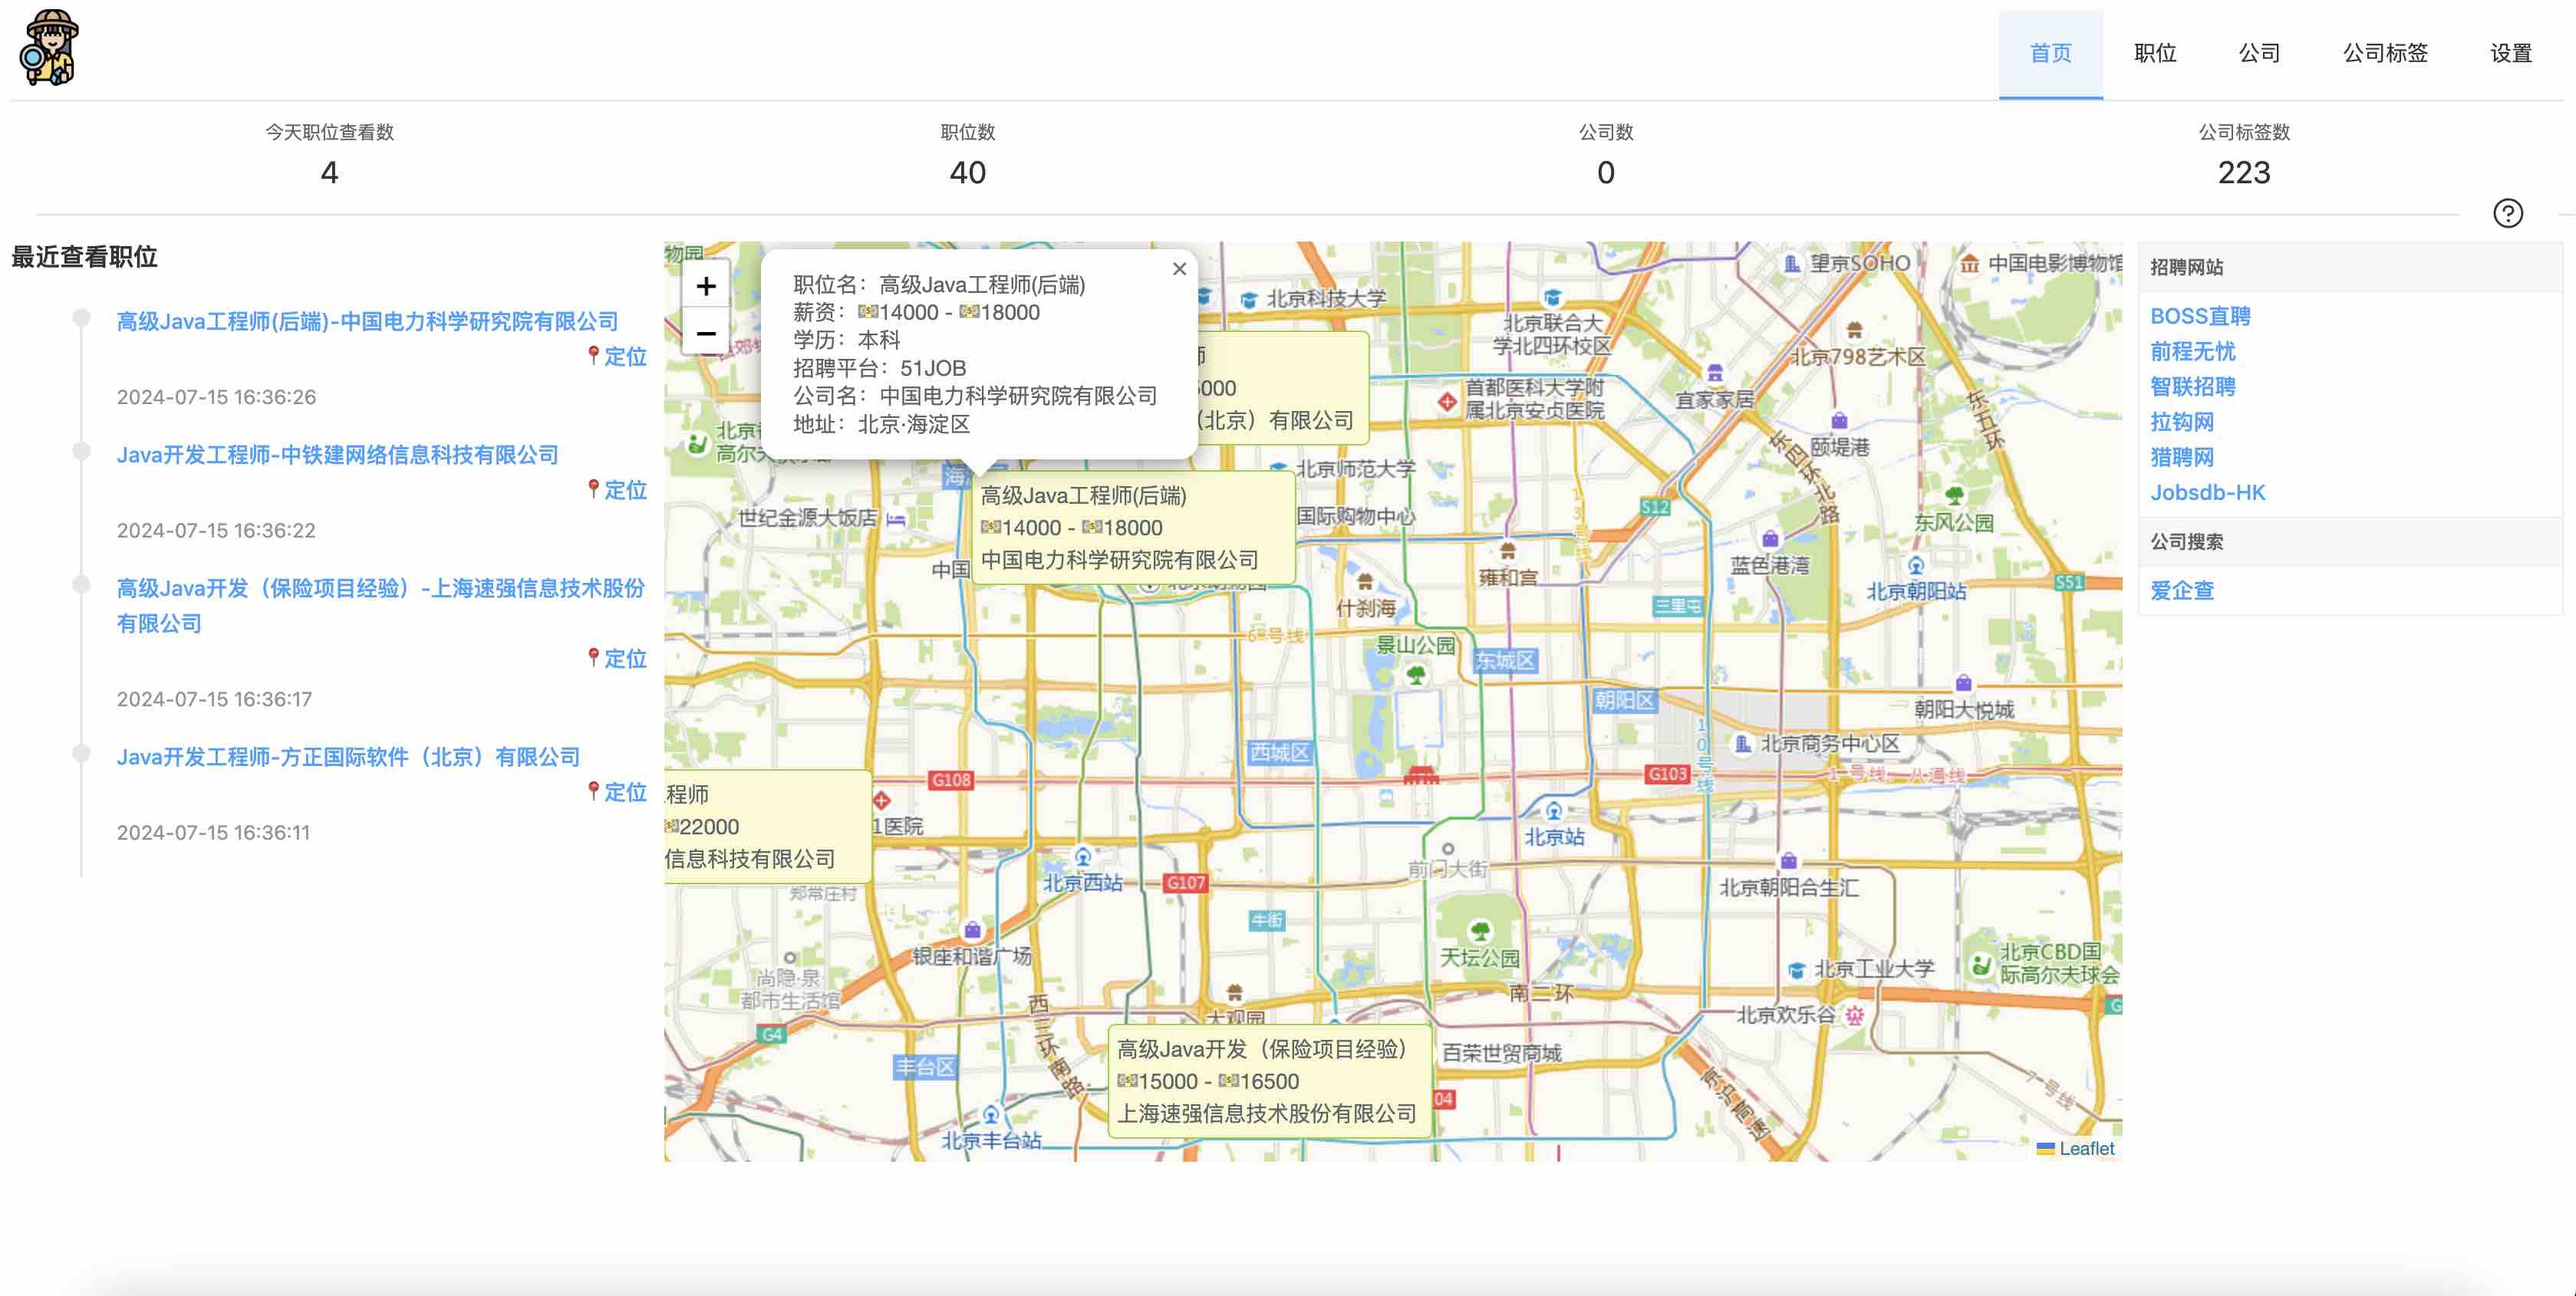
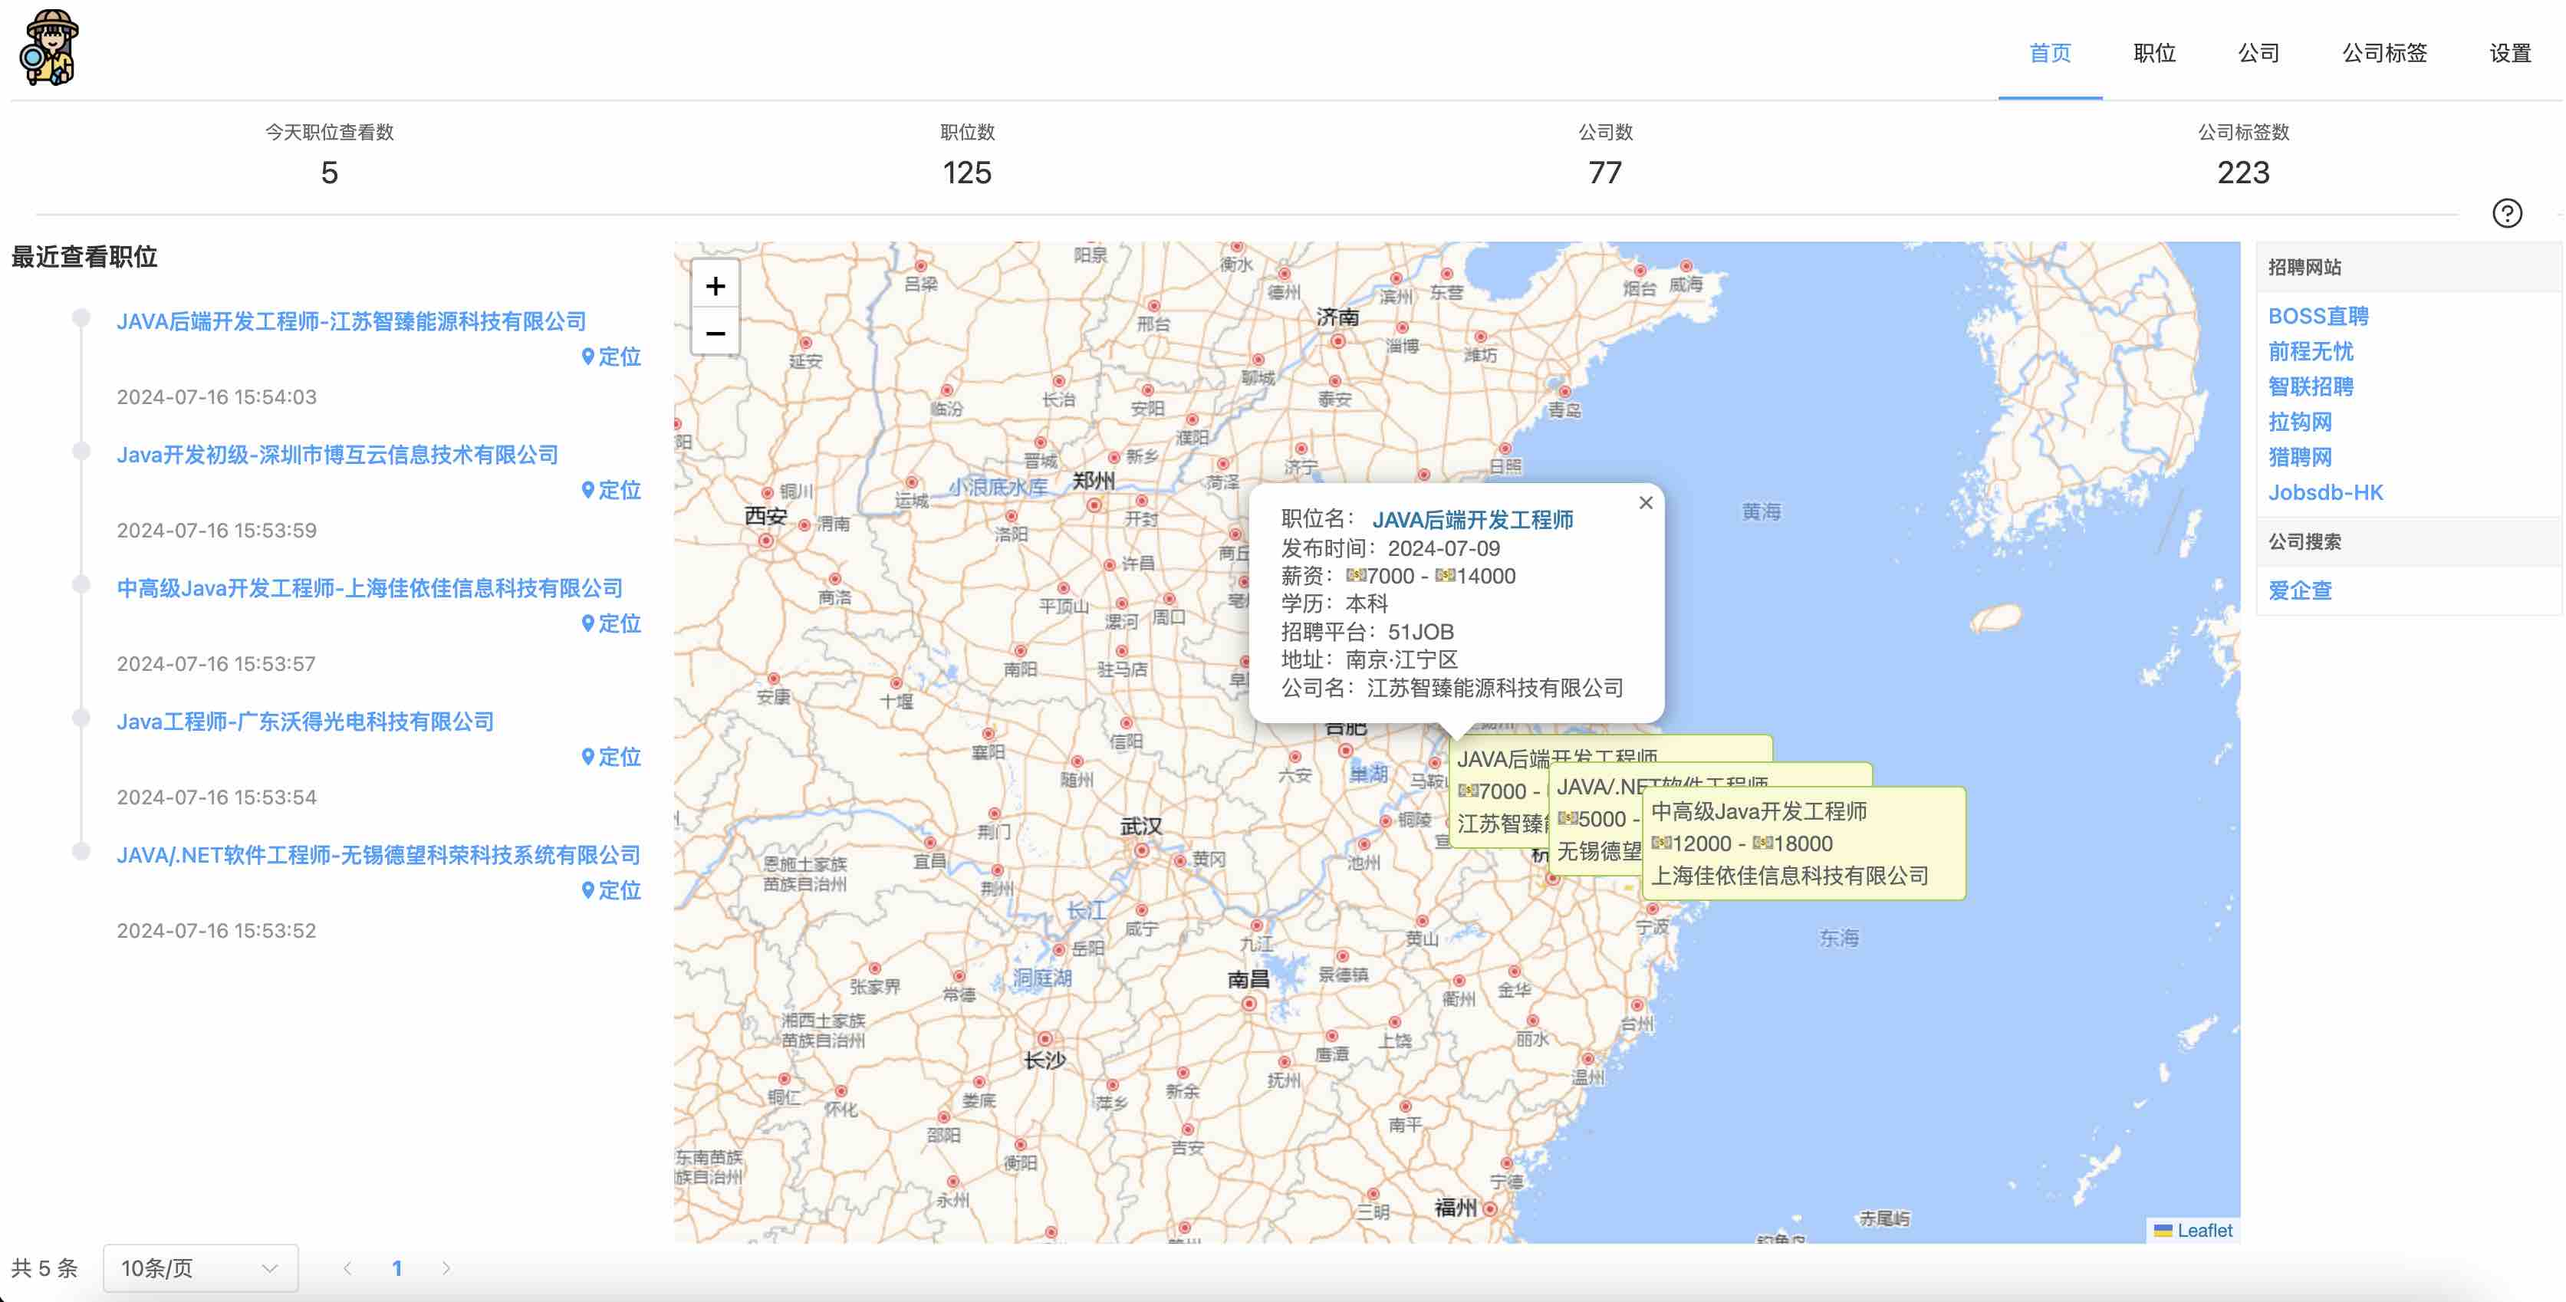
docs: add map mode for job item and company to readme desc

diff --git a/README.md b/README.md
@@ -30,14 +30,14 @@
 4. 自动快速查询公司信息并保存到数据库（BOSS 直聘和猎聘网需手动点击查询）。
 5. 自动查询官网可达性，建站时间和备案信息。
 6. 本地显示职位初次浏览时间，历史浏览次数，职位详情查看次数。
-7. 本地职位记录统计，查询，查询结果导出。
+7. 本地职位记录统计，查询，查询结果导出，地图模式。
 8. 数据备份，数据恢复。
 9. 职位评论，公司评论。（当前采用 GitHub Issues 作为评论平台，请遵守相关法律法规合法留言）
 10. 数据统计图表
     1. 根据指定搜索条件统计薪酬区间职位数（薪酬计算方式：(最低薪资+最高薪资)/2）
 11. 公司自定义标签（可添加，修改，拖拽排序），内置外包公司标签数据。
 12. 公司标签数据管理页面，公司标签数据导出，导入。
-13. 公司数据管理页面，公司数据导出，导入。
+13. 公司数据管理页面，公司数据导出，导入，地图模式。
 14. 增强爱企查企业搜索页面。（显示额外信息，公司数据同步，公司标签编辑）
 15. 首页展示最近查看职位以及在地图上显示，招聘网站和企业搜索网站的快捷入口。
 
